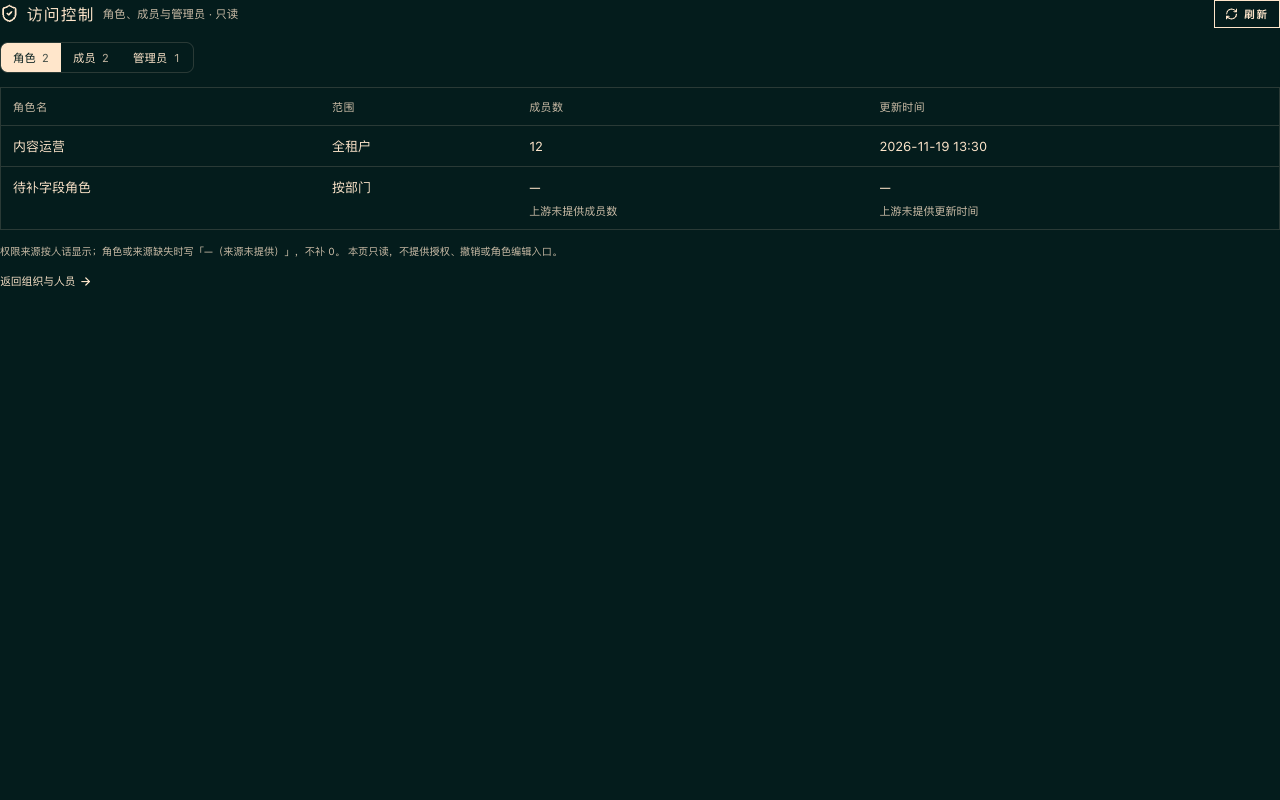
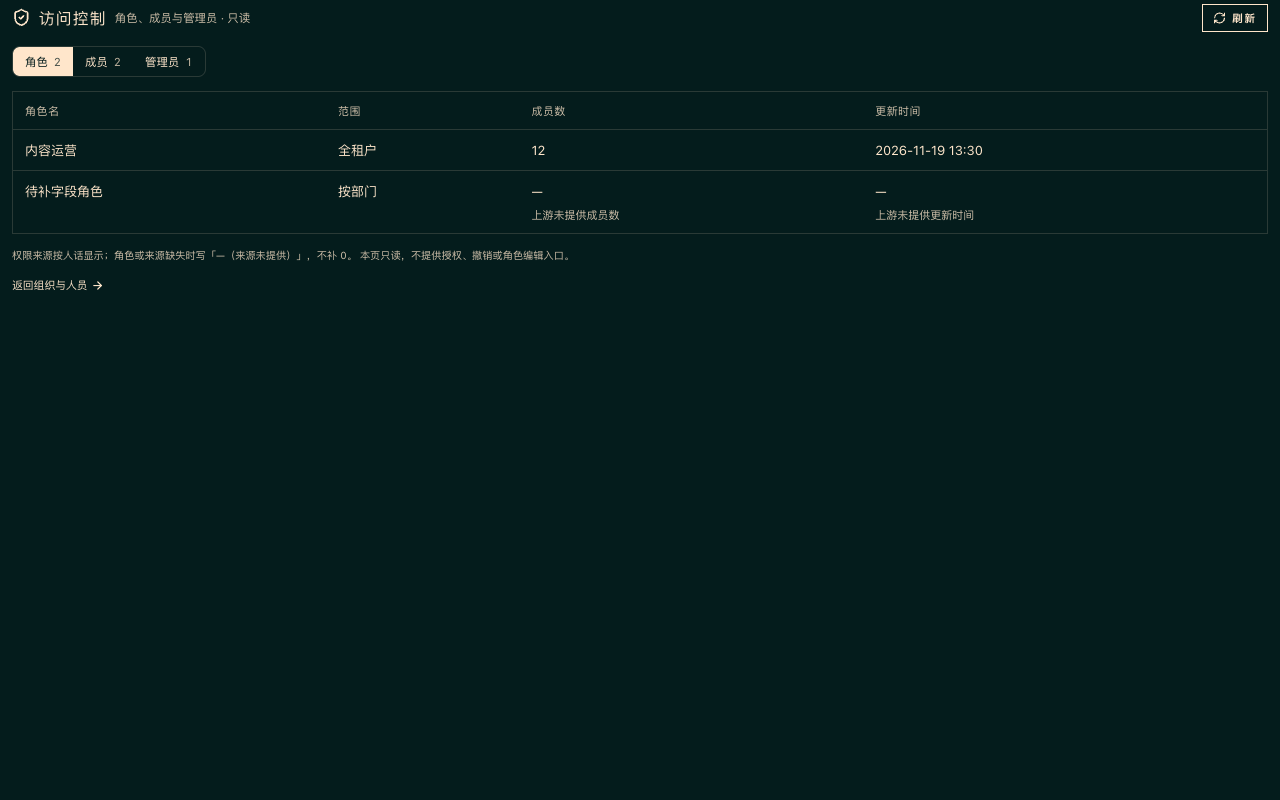
fix(console): roles edge padding and mobile table (role5)

diff --git a/web/src/modules/access/AccessModulePage.tsx b/web/src/modules/access/AccessModulePage.tsx
@@ -107,19 +107,19 @@ function RoleRow({ row }: { row: Rec }) {
   const view = roleView(row);
   return (
     <tr data-testid="role5-row" title={view.rawId || undefined}>
-      <td data-testid="role5-name">
+      <td data-label="角色名" data-testid="role5-name">
         {view.name}
         {view.nameReason ? <span className="acc4-meta">{view.nameReason}</span> : null}
       </td>
-      <td data-testid="role5-scope" title={view.scopeRaw || undefined}>
+      <td data-label="范围" data-testid="role5-scope" title={view.scopeRaw || undefined}>
         {view.scope}
         {view.scopeReason ? <span className="acc4-meta">{view.scopeReason}</span> : null}
       </td>
-      <td data-testid="role5-members">
+      <td data-label="成员数" data-testid="role5-members">
         {view.memberCount ?? "—"}
         {view.memberReason ? <span className="acc4-meta">{view.memberReason}</span> : null}
       </td>
-      <td data-testid="role5-updated">
+      <td data-label="更新时间" data-testid="role5-updated">
         {view.updatedAt ?? "—"}
         {view.updatedReason ? <span className="acc4-meta">{view.updatedReason}</span> : null}
       </td>

diff --git a/web/src/modules/access/access.css b/web/src/modules/access/access.css
@@ -3,6 +3,8 @@
   flex-direction: column;
   gap: 14px;
   min-width: 0;
+  padding: 4px 12px 32px;
+  overflow-x: hidden;
   color: var(--color-foreground);
 }
 
@@ -209,4 +211,51 @@
 
 .role5-table tr:last-child td {
   border-bottom: 0;
+}
+
+@media (max-width: 560px) {
+  .role5-scroll {
+    overflow-x: visible;
+  }
+
+  .role5-table {
+    min-width: 0;
+  }
+
+  .role5-table thead {
+    display: none;
+  }
+
+  .role5-table,
+  .role5-table tbody,
+  .role5-table tr,
+  .role5-table td {
+    display: block;
+    width: 100%;
+  }
+
+  .role5-table tr {
+    padding: 10px 0;
+    border-bottom: 1px solid var(--color-border);
+  }
+
+  .role5-table tr:last-child {
+    border-bottom: 0;
+  }
+
+  .role5-table td {
+    position: relative;
+    padding: 4px 0 4px 96px;
+    border: 0;
+  }
+
+  .role5-table td::before {
+    position: absolute;
+    top: 4px;
+    left: 0;
+    width: 86px;
+    content: attr(data-label);
+    color: var(--color-muted-foreground);
+    font-size: 11px;
+  }
 }
